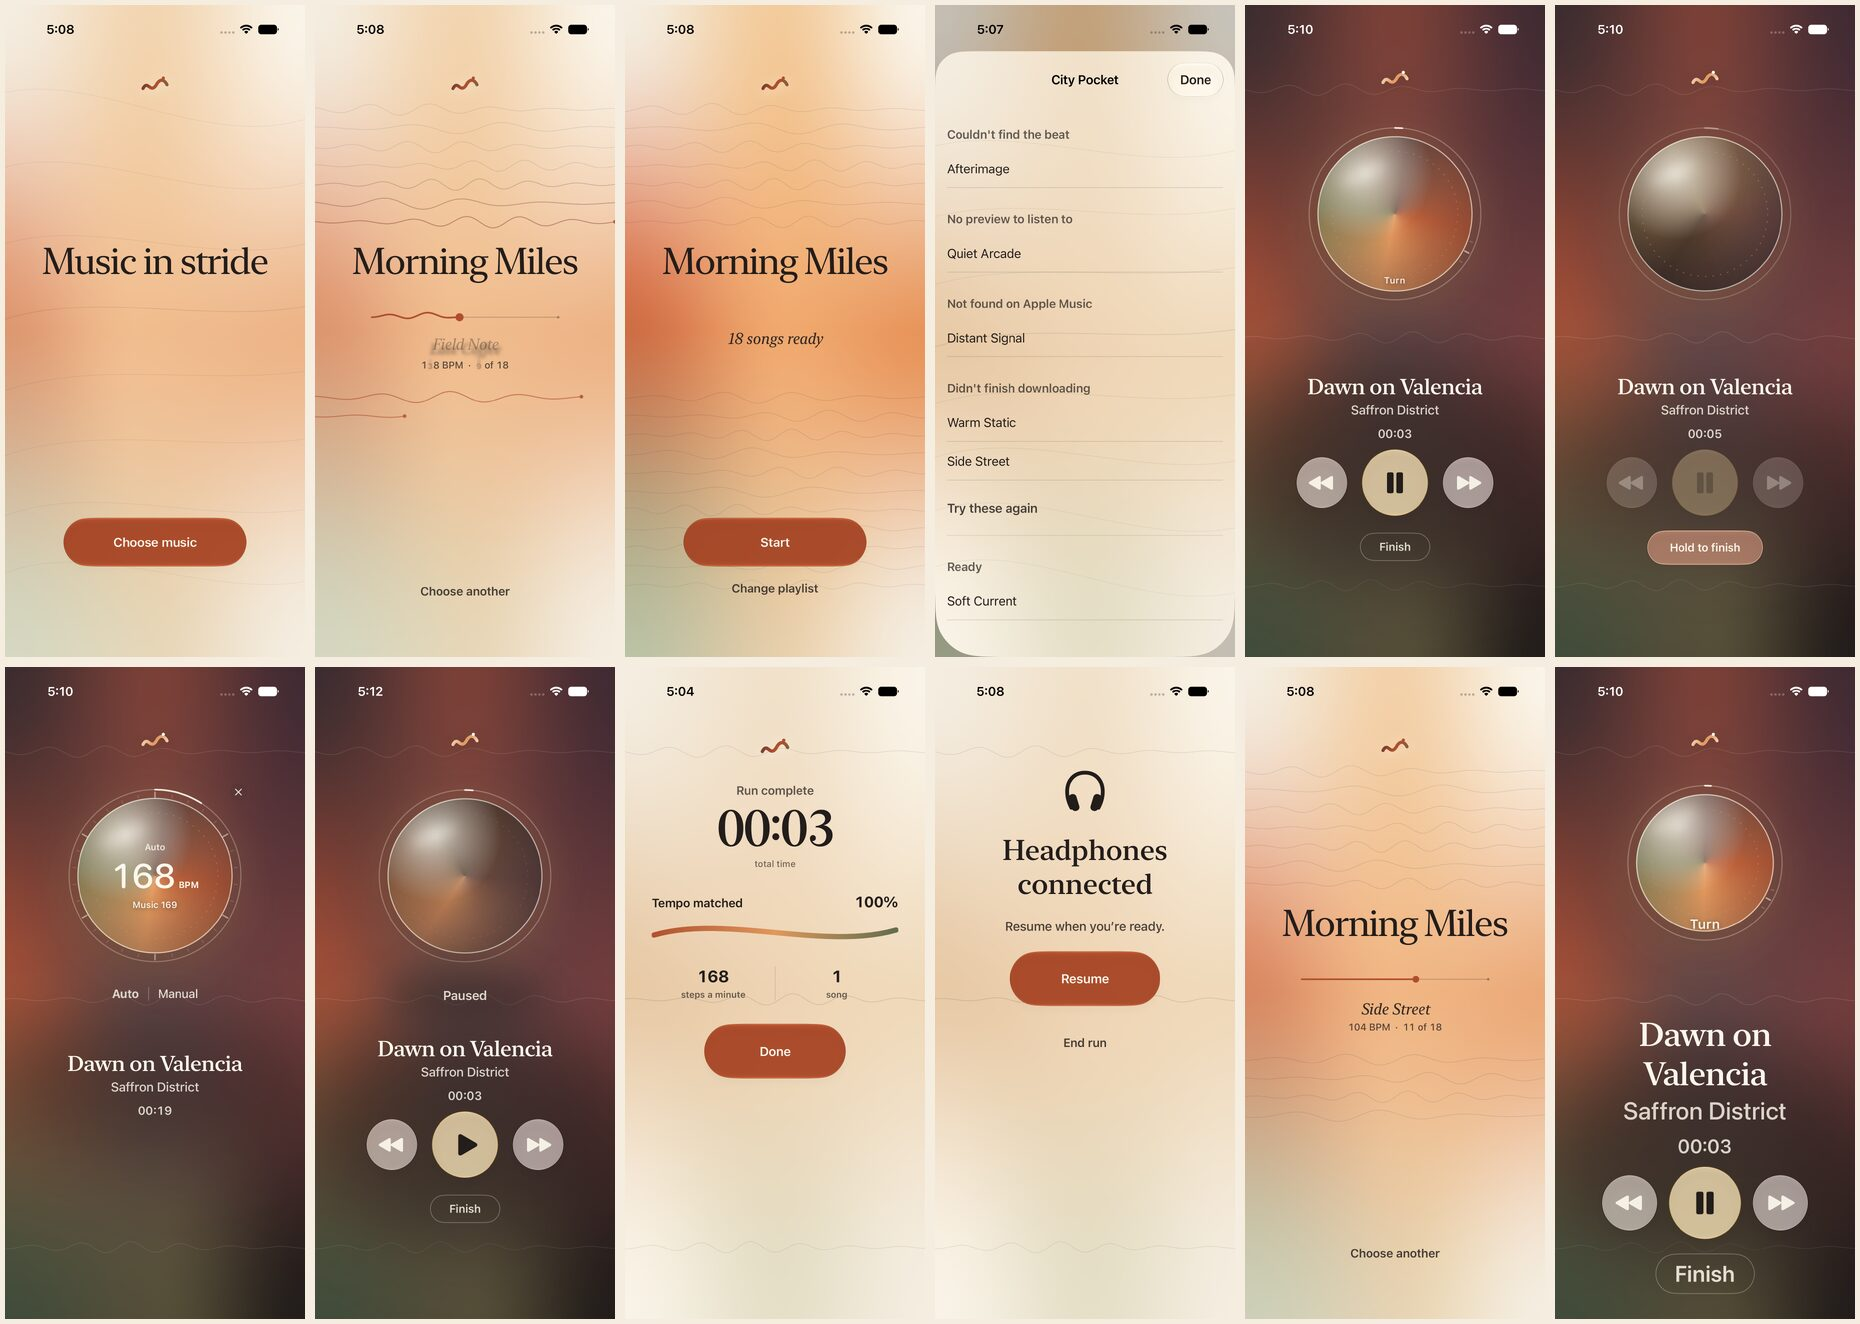
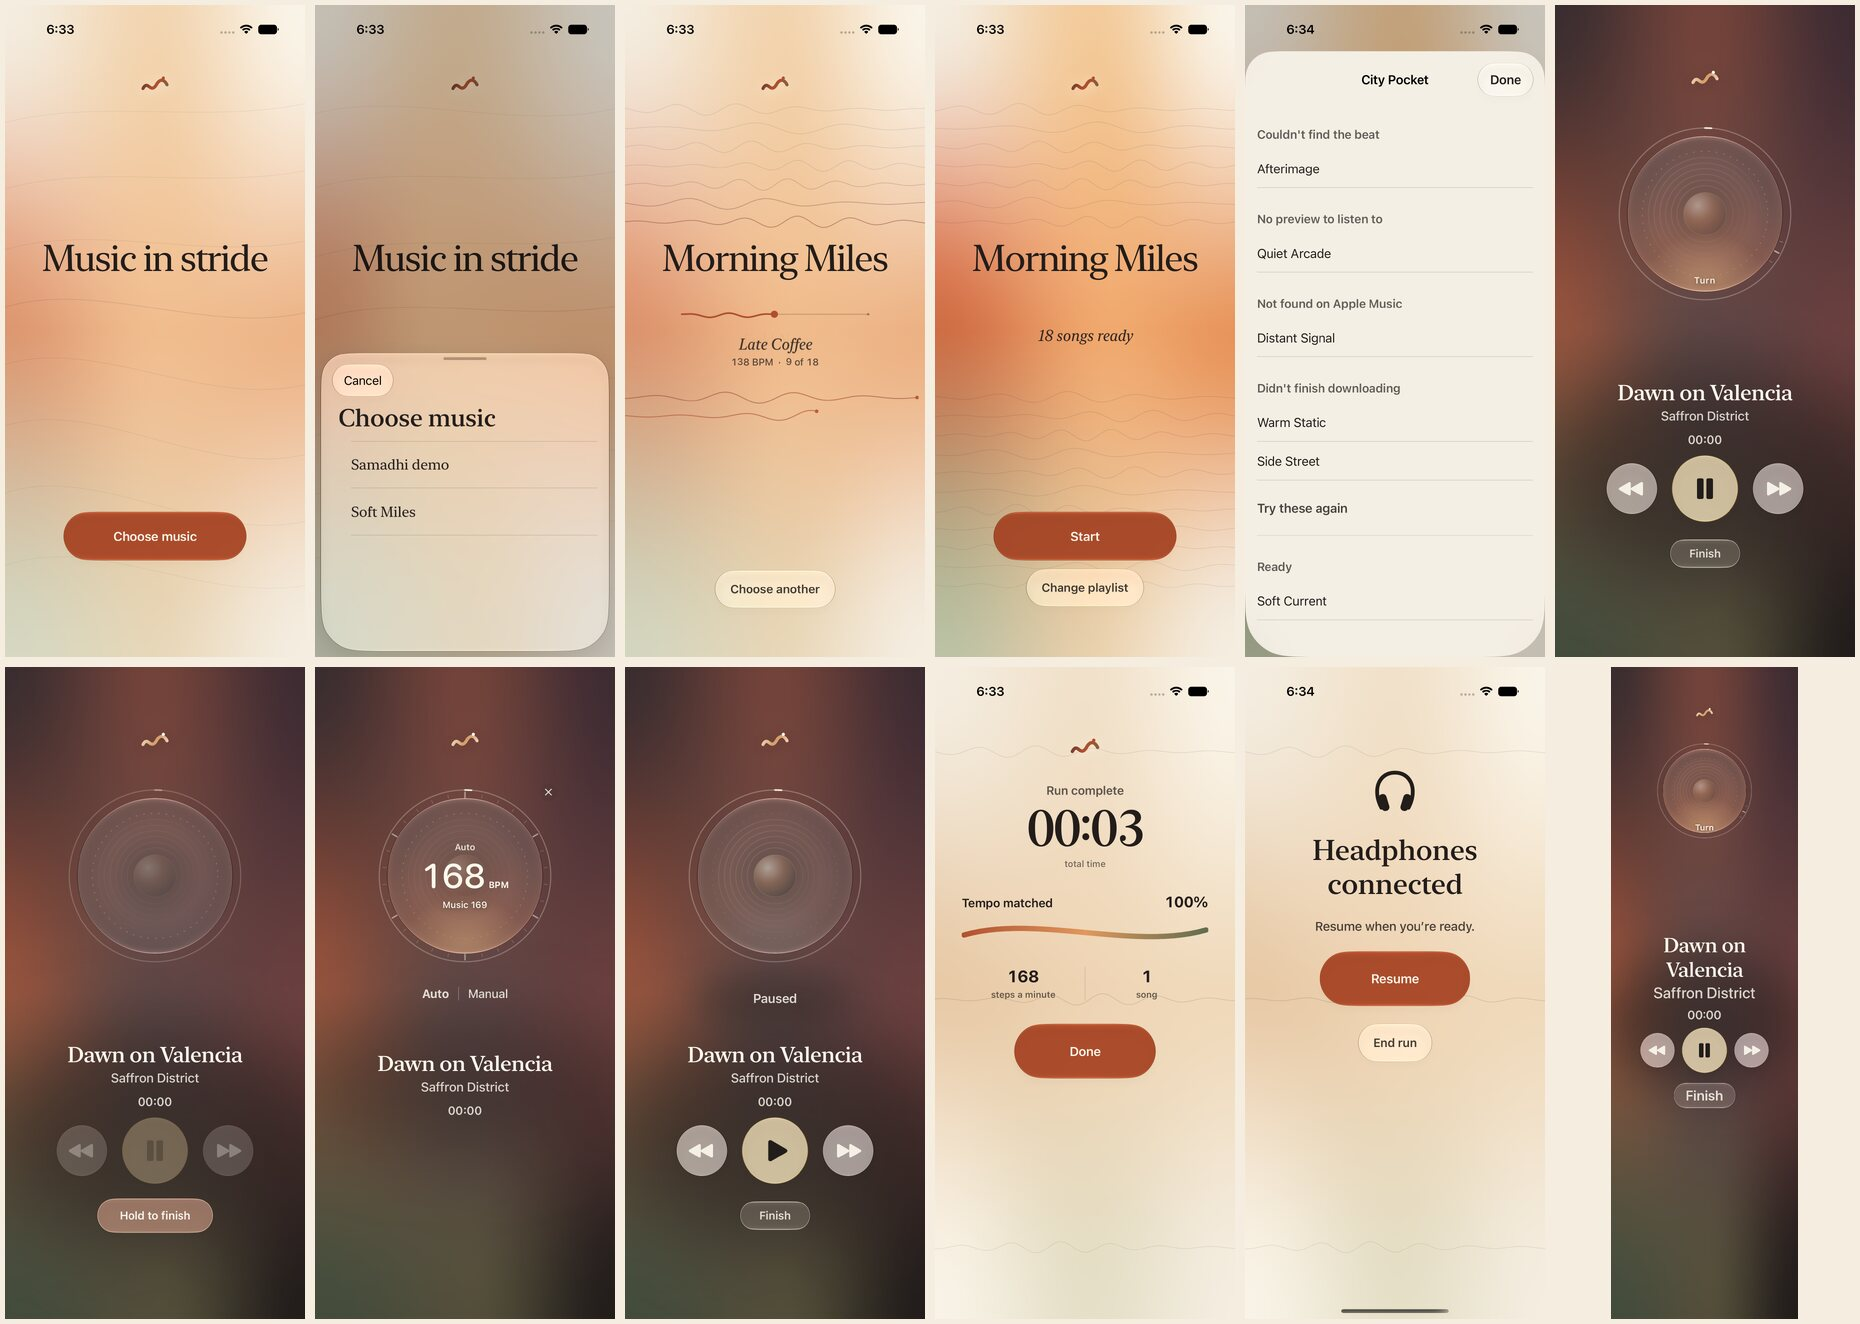
Ship version 1.2 and document the speaker and the faster tests
Records the glass and speaker decisions, the new test layers and when each applies, and
what remains to convert. The evidence sheet now shows the current interface.

diff --git a/Docs/STATUS.md b/Docs/STATUS.md
@@ -4,7 +4,7 @@ Last checked: 2026-11-02.
 
 The app is one good walk short of knowing whether its August repairs work. The phone has the repair build, original commit `0aa99a7`. No walk on that build is recorded here, and the phone may hold a later run that has not been pulled.
 
-The repository is now ahead of the phone at version 1.1, build 2. The November sweep fixed recovery dead ends and several timing bugs, and the design refresh changed how setup and the run screens look. None of that has been installed or tried on a phone. The next step is one install, then one walk.
+The repository is now ahead of the phone at version 1.2, build 3. The November sweep fixed recovery dead ends and several timing bugs, and the design refresh changed setup and the run screens, including a Liquid Glass tempo wheel drawn as a speaker. None of that has been installed or tried on a phone. The next step is one install, then one walk.
 
 ## Product state
 
@@ -17,7 +17,7 @@ The repository is now ahead of the phone at version 1.1, build 2. The November s
 | Auto | A responsive sensor estimate feeds a separate calm musical target | Noise, spike, faster, slower, missing-input, and walking tests |
 | Manual | Manual stays with the confirmed song and returns to Auto after a different song is confirmed | Reducer, app-model, and interface tests |
 | Playback range | The software candidate is 0.85 through 1.15. Only 0.90 and 1.10 have been heard | Shared limits and endpoint tests. Listening at the endpoints is open |
-| Tempo wheel | The wheel has a quiet close action with its own 44-point target | Interface tests and inspected Simulator frames |
+| Tempo wheel | The wheel is a speaker driver under a clear glass lens. The cone and center cap push forward on the real beat while the surround stays still. It has a quiet close action with its own 44-point target | Interface tests and inspected Simulator frames |
 | Transport and Finish | Previous, Pause or Resume, and Next are three interactive Liquid Glass circles, the primary larger and tinted. Finish is a quiet button below them that arms a hold drawn inside its own capsule | Serial interface tests, including two that fail if Pause or Finish moves when it changes state, and the sheet in `Evidence/Simulator/2026-11-02-design-refresh/`. Feel on the phone is open |
 | Reading a playlist | Each song read draws one contour line shaped by its measured tempo and plucks the progress string. The field warms with the count of songs read, and the song, tempo, and count pass in one centered stack | Unit tests for the map and the warmth, interface tests, and inspected frames and video from the Simulator. An invented playlist was read one song at a time, so real import pacing and frame rate on a phone are open |
 | Auto feedback | The reducer owns one directional transaction per meaningful Auto change. Three prototype haptic families, six arrival sounds, and a hidden audition screen exist. Every cue reports what became of it | Domain, app-model, and asset tests. Nothing about feel or sound is physically proved |
@@ -49,6 +49,7 @@ All of these need a body, an ear, or real Apple Music. [PHONE-CHECK.md](PHONE-CH
 - Hear 0.85 and 1.15 through headphones for a full musical section, and read back what Apple Music reports.
 - Judge transport and Finish by hand.
 - Run the blinded faster and slower trials for all three haptic families on both sound paths.
+- Judge the glass and the speaker's beat pump on a real screen, because the Simulator only approximates glass.
 - Hear the crossfade at a natural song change, and confirm `Last song change` after a natural end and after an explicit Next.
 - Check screen lock, an interruption, and route recovery.
 - Run a clean walking-only check. The 90 SPM floor and five-second delay are software choices, not tuned constants.

diff --git a/Docs/DEVELOPMENT.md b/Docs/DEVELOPMENT.md
@@ -8,11 +8,20 @@ Samadhi improves in widening rings, from logic out to the phone. Stay in the inn
 
 | Ring | Question it answers | Command | Time |
 | --- | --- | --- | --- |
+| Changes | What can my edits have broken? | `./Scripts/check.sh` runs only the tests they can affect | Seconds to a minute |
 | Logic | Does the reducer, filter, or analyzer behave? | `swift test --package-path Packages/SamadhiKit` | Seconds |
 | Look | Does it read right in every environment? | `./Scripts/sim.sh matrix <name> [args]` | About a minute |
 | Motion | Does the interaction hold up frame by frame? | `./Scripts/sim.sh frames <test>` or `record <name> <seconds>` | Minutes |
-| Gate | Is it ready for a phone? | `./Scripts/gate.sh` | About 15 minutes |
+| Gate | Is it ready for a phone? | `./Scripts/gate.sh` | About 4 minutes, and instant if nothing that affects it changed |
 | Phone | Does it feel right on a body? | `./Scripts/phone.sh install`, then `pull` after moving | A walk |
+
+### Which test goes where
+
+Most interface behavior belongs in `Tests/SamadhiTests/ScreenRenderingTests.swift`. Those tests draw a screen directly from its state, so they read real positions, labels, and button actions and take a fraction of a second. Their environments apply, including the largest text size.
+
+`Tests/SamadhiUITests/` holds what direct drawing cannot prove: real touch, gestures such as the wheel, sheets, and the whole app wired together. These tests launch the app, so they take about 10 seconds each. They run on four Simulator clones, and Xcode splits work by test class, so keep the classes roughly equal in running time.
+
+GitHub runs an older compiler than this Mac, so a long math expression can pass here and fail there. `check.sh` catches these by failing on any expression slower than 500 milliseconds to type-check. Give each step one explicit type.
 
 ### Logic
 
@@ -36,7 +45,7 @@ UI tests in `Tests/SamadhiUITests/` drive states that take interaction to reach,
 ./Scripts/sim.sh frames testTransportAndFinishAfterStateEvidence
 ~~~
 
-For a press, a hold, or a transition, `./Scripts/sim.sh record finish-hold 6` records video and splits it into frames at 30 per second. A running UI test stalls the capture, so record motion without one where you can. `./Scripts/sim.sh run -SAMADHI_FAST_MODE -SAMADHI_MUSIC_READING_DEMO` starts reading a playlist by itself for this. The August overflow in Finish was only visible this way.
+For a press, a hold, or a transition, `./Scripts/sim.sh record finish-hold 6` records video and splits it into frames at 30 per second. A running UI test stalls the capture, so record motion without one where you can. Launching with `-SAMADHI_FAST_MODE` plus `-SAMADHI_MUSIC_READING_DEMO` starts reading a playlist by itself, and `-SAMADHI_RUN_DEMO` starts a run by itself. The August overflow in Finish was only visible this way.
 
 ### Phone
 

diff --git a/Docs/DECISIONS.md b/Docs/DECISIONS.md
@@ -24,7 +24,7 @@ Use local MeshGradient, restrained contours, and tempo aperture. No generated vi
 
 ## Depth through hierarchy
 
-Use one visual owner. Reserve glass for controls. Use open typography and tonal washes for passive information. Persistent rings must communicate progress or cadence.
+Use one visual owner. Reserve glass for controls, which now include the tempo wheel's lens. Use open typography and tonal washes for passive information. Persistent rings must communicate progress or cadence.
 
 ## Brand
 
@@ -316,3 +316,13 @@ Reading a playlist is a rare moment, and it was a generic progress bar. Each son
 The field warms with the count of songs read, never with a timer. The progress line is a string that each song plucks, and it reaches only as far as the songs actually read.
 
 Earlier options were rejected. One tick per song on a progress line was the generic version of the same idea. Lines crossing the playlist name hurt legibility, so the map leaves a clearing around it.
+
+## The wheel is a speaker under glass
+
+The painted sphere never read as what it was meant to be, which is a speaker. The wheel is now a driver seen head on: a surround that stays still, a ribbed cone, and a center cap that push forward on the real beat, under a clear Liquid Glass lens. The repository bans glowing orbs, and this replaces one. Reading text stays off glass, because an earlier glass bar read as a milky slab on the phone.
+
+A full-height sheet is not system glass, so the results sheet uses warm parchment over a thin material. The playlist sheet is real glass, so the button behind it fades away while it is open.
+
+## Most interface tests draw the screen directly
+
+Launching the app to check a fixed screen cost about 6 seconds a frame, and direct drawing costs about 0.27. It reads real positions, labels, and button actions from the accessibility tree, using a test-only switch that never ships. Real touch and the whole app wired together keep their tap-through tests. Interface tests now run side by side, because Xcode 27.2 no longer shows the Simulator failure that kept them serial, and the gate skips itself when nothing that affects it changed.

diff --git a/Evidence/Simulator/2026-11-02-design-refresh/README.md b/Evidence/Simulator/2026-11-02-design-refresh/README.md
@@ -1,9 +1,9 @@
 # Design refresh
 
[2 lines of base64/hex data omitted]
 
-`contact-sheet.jpg` runs left to right, top to bottom: first screen, reading partway, reading finished, song results, run controls, Hold to finish, tempo wheel, paused, summary, recovery, reading with Reduce Motion, and run controls at accessibility XXXL.
+`contact-sheet.jpg` runs left to right, top to bottom: first screen, playlist sheet, reading partway, reading finished, song results, run controls, Hold to finish, open tempo wheel, paused, summary, recovery, and run controls at the largest text size.
 
-What these frames prove: layout, type, the song-line map, that Reduce Motion stops the drawing, and that the run screen fits at the largest text size. Interface tests also prove that Pause and Finish hold their place when they change state.
+What these frames prove: layout, type, the song-line map, and the speaker under its lens. Tests also prove that Pause and Finish hold their place at every text size.
 
-What they do not prove: frame rate on a phone, how real Liquid Glass looks on a phone, or pacing with a real playlist. The fixture is an invented playlist read one song at a time, and the real import reads three at a time. Nothing in this folder has been on a phone.
+What they do not prove: how real glass looks on a phone, since the Simulator only approximates it, frame rate on a phone, or pacing with a real playlist. The fixture is an invented playlist read one song at a time, and the real import reads three at a time. Nothing in this folder has been on a phone.

diff --git a/Docs/PLAN.md b/Docs/PLAN.md
@@ -54,6 +54,11 @@ This came out of the November sweep. It has not been built, because it changes t
 
 1. Decide after the next walk whether to bring back Auto fine-tune or delete its code. Fine-tune meant nudging Auto by up to 20 BPM above or below the sensed cadence while Auto kept following it. The app has no control for it, because turning the wheel now switches to Manual, so `PRODUCT.md` and `CONTEXT.md` no longer promise it. The reducer path, its tests, and one preview remain, and `MILESTONE-2-SPEC.md` still records the original requirement. Leave all of it alone until then. If the walk leaves Samay wanting to nudge Auto, the wheel gains a way to send `adjustRhythmControl`. If not, the path and its tests go.
 
+## Testing debt
+
+- 32 interface tests still launch the app. Many check a fixed setup state and could move to `ScreenRenderingTests`, leaving about 5 for real touch and the whole flow. Move them one group at a time, and each moved test must still catch what the old one caught.
+- Direct drawing cannot set Reduced Transparency, because the system offers no override for it. Glass under that setting needs a look on a real phone.
+
 ## Known debt before any public Release
 
 Nothing here affects today's Debug phone builds.

diff --git a/Docs/PROGRESS.md b/Docs/PROGRESS.md
@@ -671,5 +671,8 @@ This checkpoint recorded a passing local candidate before its exact-profile buil
 - Replaced the progress bar with a plucked string, set the playlist name lighter and larger with a letter-by-letter arrival, and moved the song, tempo, and count into one centered stack
 - Connected the Reduce Motion and Increased Contrast launch arguments to the design layer, because they had never reached it
 - Shipped this as version 1.1, build 2, and replaced superseded frames with one current sheet
+- Made the controls real Liquid Glass: the playlist sheet is system glass, and Finish, Change playlist, Choose another, and End run join the same family
+- Replaced the painted tempo sphere with a speaker driver under a clear lens, whose cone and center cap pump on the real beat. This is version 1.2, build 3
+- Cut the gate from about 15 minutes to about 4 by drawing screens directly in tests, running interface tests on four Simulator clones, and remembering what last passed. Direct drawing also found Pause and Resume 11 points apart at the largest text size, now fixed
 
 Current state and next steps live in [STATUS.md](STATUS.md) and [PLAN.md](PLAN.md).

diff --git a/Docs/TESTING.md b/Docs/TESTING.md
@@ -10,7 +10,7 @@ This regenerates the project and fails if it drifted from `project.yml`, runs th
 
 GitHub Actions repeats the lint, fingerprint, and package tests on every push. Interface tests and phone checks stay on a real Mac.
 
[2 lines of base64/hex data omitted]
 
 ## Coverage
 

diff --git a/Docs/BRAND.md b/Docs/BRAND.md
@@ -33,6 +33,10 @@ Native ribbon drawing echoes icon without nesting square app icon inside interfa
 
 The signature of the interface is the map a playlist draws of itself. Each song read draws one contour line whose ripple comes from its measured tempo, and the progress line is a string that the same songs pluck. Keep it thin and in the field's own colors. It frames the playlist name and never crosses it.
 
+## The speaker
+
+The tempo wheel is a speaker driver seen head on, under a clear glass lens, with a sunrise grazing it from below. Thin ribs, one domed center cap, and no photo-real detail. It is drawn in the field's own ink so the field stays visible through it, and it moves only on the real beat.
+
 ## Repository cover
 
 User-supplied Midjourney artwork uses wide interwoven rhythm form over parchment contours. Soft italic “music in stride” sits upper-left, outside sculpture, preserving flow and negative space.

diff --git a/AGENTS.md b/AGENTS.md
@@ -24,7 +24,9 @@ Start with Docs/STATUS.md and Docs/PLAN.md. Docs/DEVELOPMENT.md explains the dev
 - Every animation must be interruptible and respect Reduce Motion.
 
 ## Validation
-- Run `./Scripts/gate.sh` before a phone install or a push to main.
+- Run `./Scripts/check.sh` while working. It runs only the tests your changes can affect.
+- Run `./Scripts/gate.sh` before a phone install or a push to main. It skips itself when nothing that affects it changed.
+- Put new interface checks in `Tests/SamadhiTests/ScreenRenderingTests.swift` unless they need real touch or the whole app.
 - Run relevant unit tests after domain changes. Write the failing test first when fixing a bug.
 - Verify every visual milestone in a real Simulator frame, and open the frame before claiming a result.
 - Do not claim cadence quality without physical-device evidence.

diff --git a/Docs/PHONE-CHECK.md b/Docs/PHONE-CHECK.md
@@ -18,6 +18,8 @@ Before starting, run `./Scripts/phone.sh install`. It builds with the exact prof
 
 ## 3. Transport and Finish feel (5 minutes)
 
+- Judge the glass wheel, the speaker's beat pump, and the glass sheet in daylight. The Simulator only approximates glass.
+
 - With controls visible: press Pause, Resume, Previous, Next several times. Each Previous or Next should tick once; the song change follows only when Apple Music confirms it.
 - Tap Finish, release early twice, then hold to completion once. The fill must never show outside the pill; early release must snap the fill back; completion must feel like one event.
 - Repeat with the phone in the pocket position for Finish only (no accidental finish while walking for one minute with the screen on).
